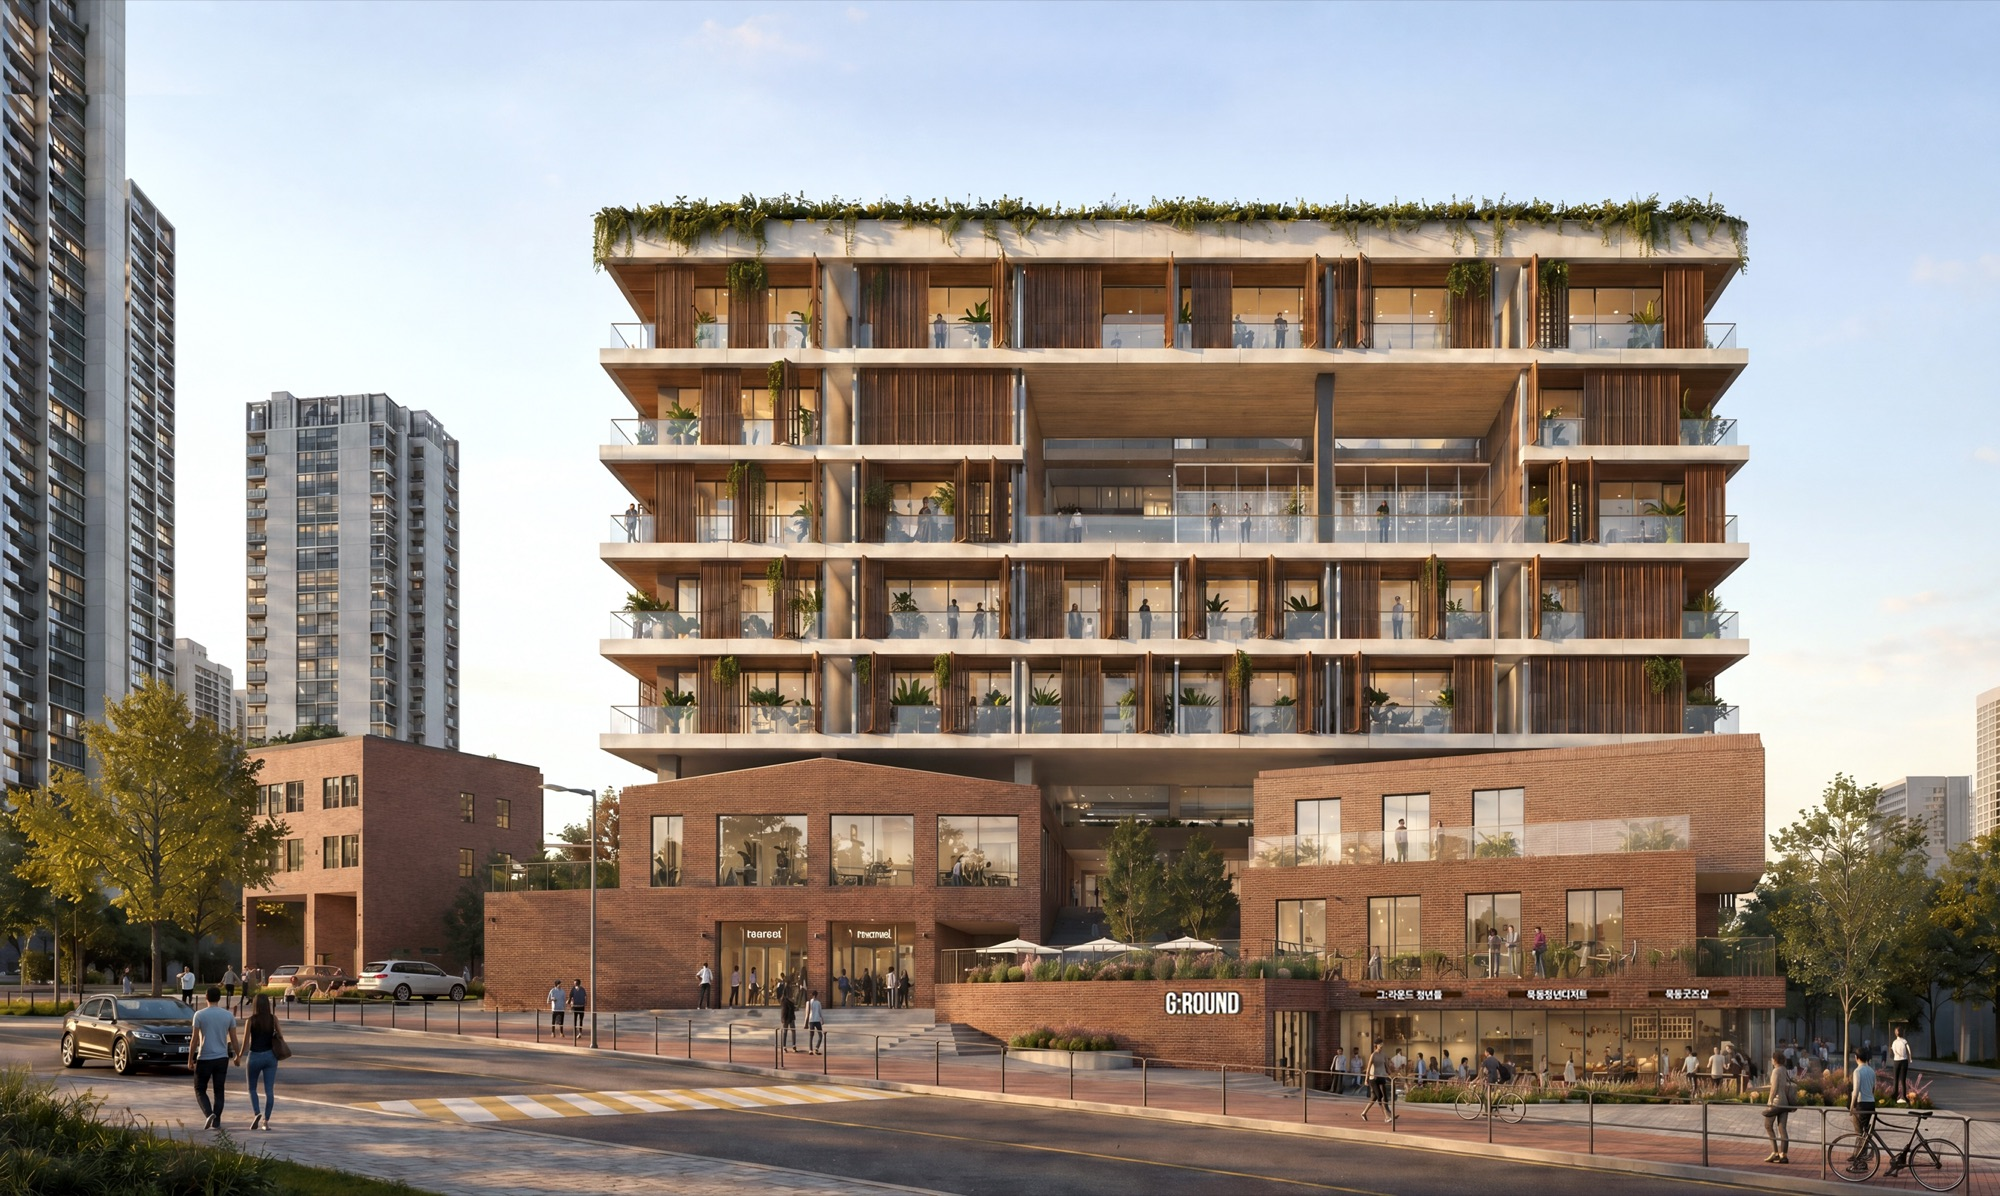
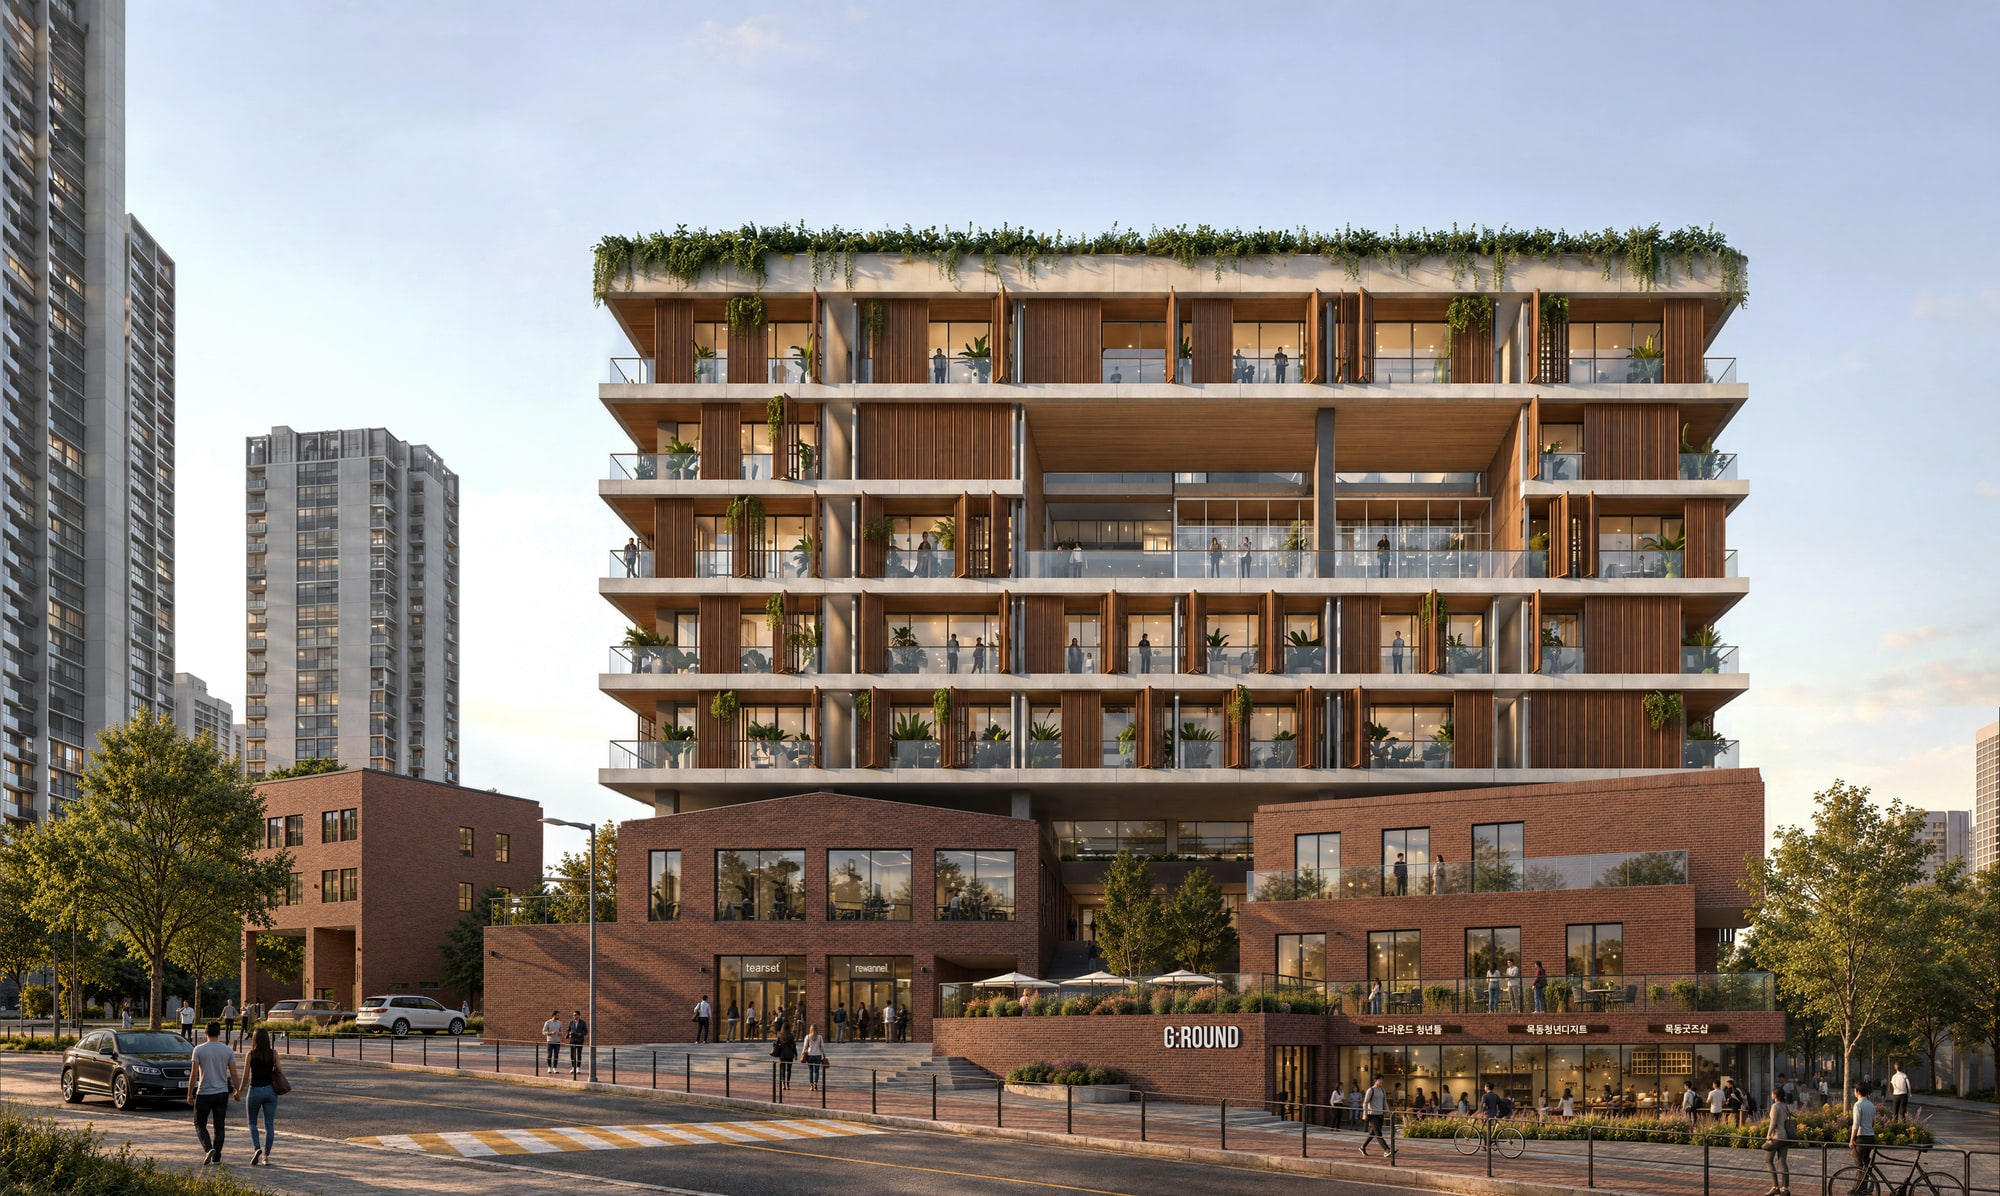
Projects: update Loft One Ground thumbnail and Sejong Center image 4

diff --git a/js/projects-data.js b/js/projects-data.js
@@ -133,7 +133,7 @@ window.PROJECTS = [
   {
     id: 'sejong-center',
     thumbnail: 'images/projects/sejong-center.jpg',
-    images: ['images/projects/sejong-center-2.jpg?v=20261008', 'images/projects/sejong-center-3.jpg?v=20261026', 'images/projects/sejong-center-4.jpg?v=20261026'],
+    images: ['images/projects/sejong-center-2.jpg?v=20261008', 'images/projects/sejong-center-3.jpg?v=20261026', 'images/projects/sejong-center-4.jpg?v=20261027'],
     name: 'Sejong Center',
     nameKo: '세종문화회관 플레이스 브랜딩',
     desc: '세종문화회관 플레이스 브랜딩',
@@ -282,7 +282,7 @@ window.PROJECTS = [
   },
   {
     id: 'loft-one-ground',
-    thumbnail: 'images/projects/loft-one-ground.jpg',
+    thumbnail: 'images/projects/loft-one-ground.jpg?v=20261027',
     images: ['images/projects/loft-one-ground-2.jpg', 'images/projects/loft-one-ground-3.jpg', 'images/projects/loft-one-ground-4.jpg', 'images/projects/loft-one-ground-5.jpg'],
     name: 'Loft-One G:ROUND',
     nameKo: '중랑구 묵동70번지 임대주택 개발사업기획 및 공간기획',

diff --git a/project.html b/project.html
@@ -102,7 +102,7 @@
 </main>
 
 <script src="js/main.js?v=22"></script>
-<script src="js/projects-data.js?v=20261026"></script>
+<script src="js/projects-data.js?v=20261027"></script>
 <script src="js/project-detail.js?v=20261023b"></script>
 </body>
 </html>

diff --git a/projects.html b/projects.html
@@ -83,7 +83,7 @@
 </main>
 
 <script src="js/main.js?v=22"></script>
-<script src="js/projects-data.js?v=20261026"></script>
+<script src="js/projects-data.js?v=20261027"></script>
 <script src="js/projects.js?v=20261020"></script>
 </body>
 </html>

diff --git a/index.html b/index.html
@@ -131,7 +131,7 @@
 
 </main>
 
-<script src="js/projects-data.js?v=20261026"></script>
+<script src="js/projects-data.js?v=20261027"></script>
 <script src="js/main.js?v=22"></script>
 <script>
   /* Contact form — Formspree AJAX submit */
